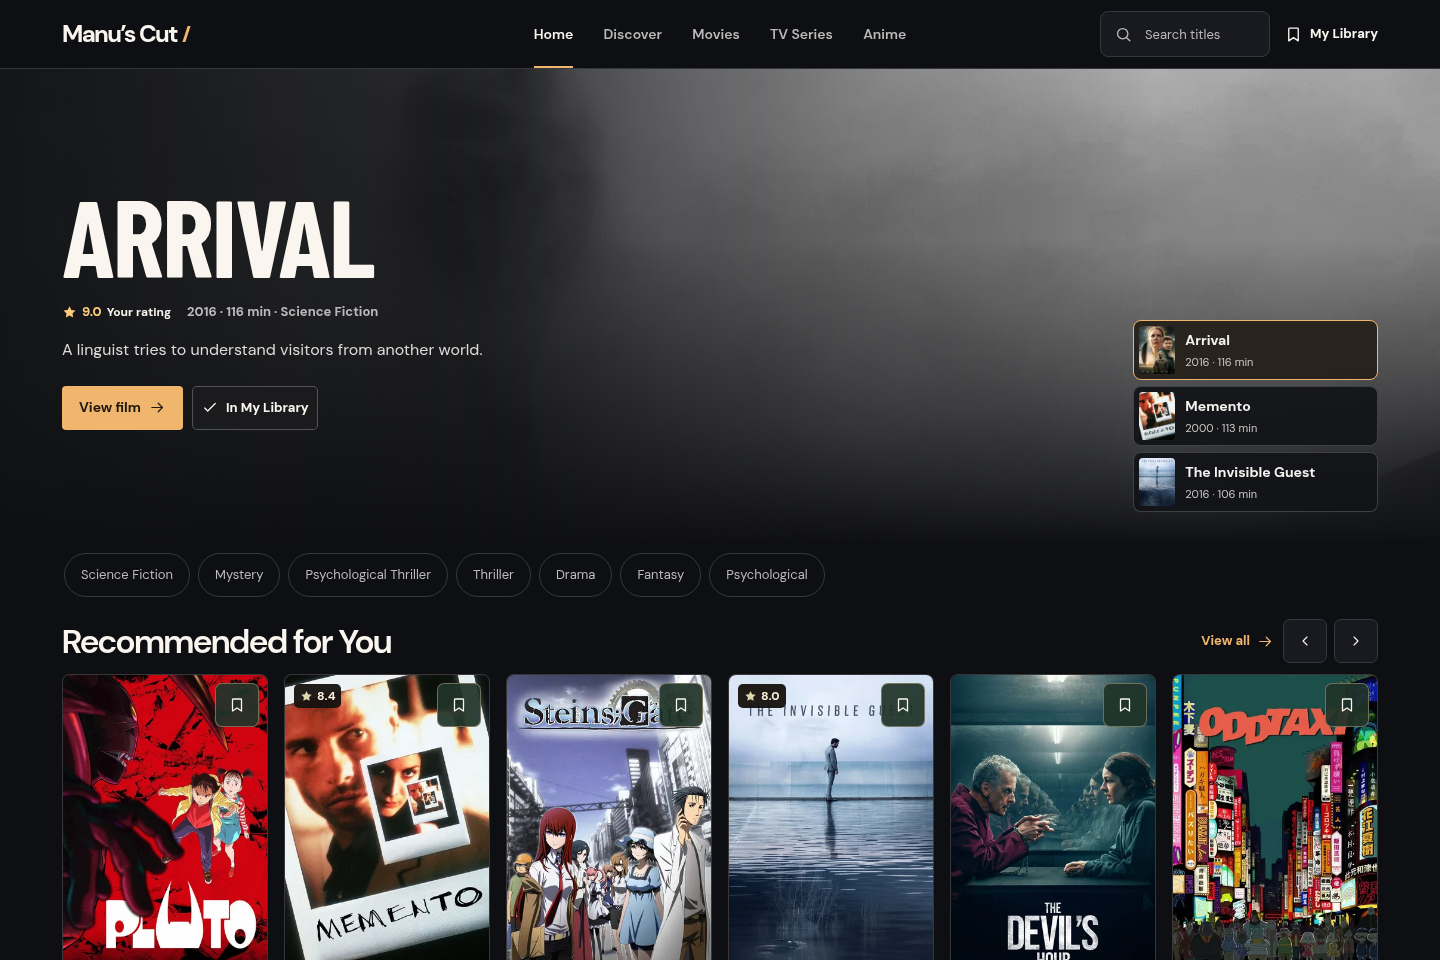
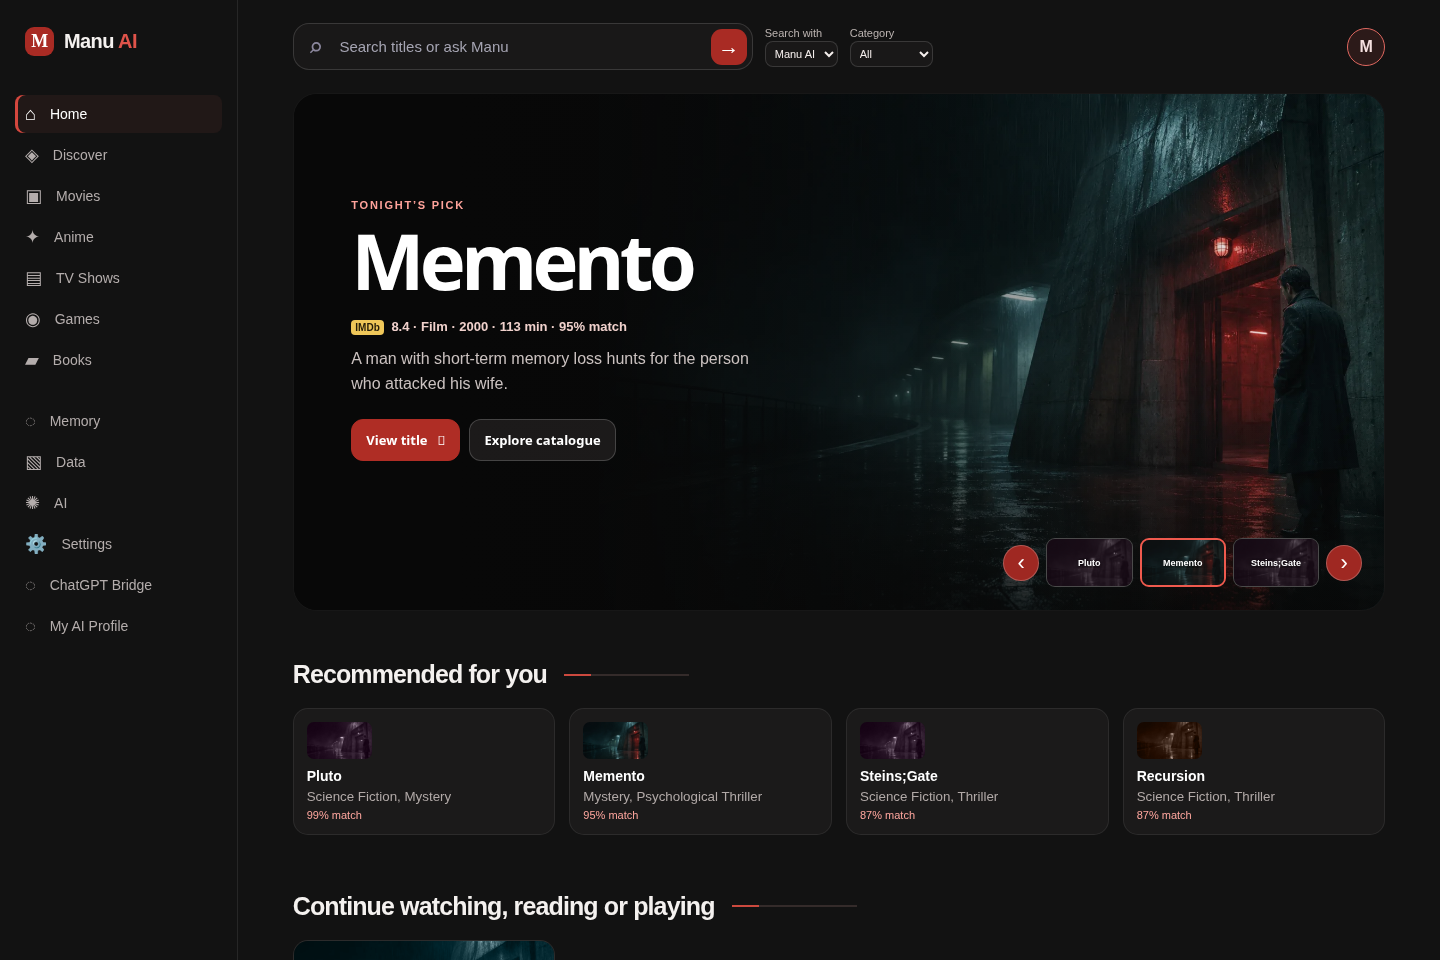
Restore the original Manu AI cinema dashboard as the homepage

diff --git a/frontend/app/page.tsx b/frontend/app/page.tsx
@@ -1,5 +1,7 @@
-import { CutBrowse } from "@/components/cut/browse";
+"use client";
+
+import Dashboard from "./dashboard";
 
 export default function Home() {
-  return <CutBrowse view="home"/>;
+  return <Dashboard />;
 }
